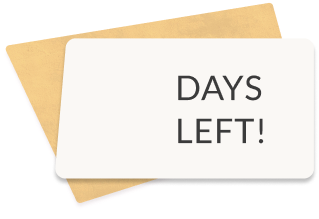
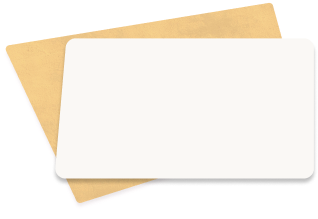
fixed a bug; 1 days -> 1 day

diff --git a/Assets/Scripts/EndOfQuest.cs b/Assets/Scripts/EndOfQuest.cs
@@ -11,6 +11,7 @@ public class EndOfQuest : MonoBehaviour
     [SerializeField]
     public GameObject endOfQuest;
     public TextMeshProUGUI remainDays;
+    public TextMeshProUGUI daysText;
     public TextMeshProUGUI title;
     public TextMeshProUGUI description;
     public GameObject[] pictures;
@@ -43,9 +44,13 @@ public class EndOfQuest : MonoBehaviour
         }
 
         // set texts
-        remainDays.text = GlobalGameInfo.GetRemainDays().ToString();
         title.text = questTitle;
         description.text = quest.description;
+        remainDays.text = GlobalGameInfo.GetRemainDays().ToString();
+        if (GlobalGameInfo.GetRemainDays() <= 1)
+        {
+            daysText.text = "DAY";
+        }
 
         // set character and picture
         for (int i = 0; i < pictures.Length; i++)
